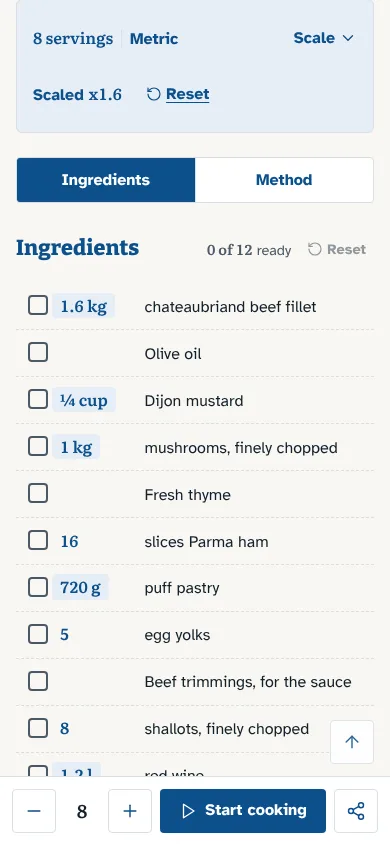
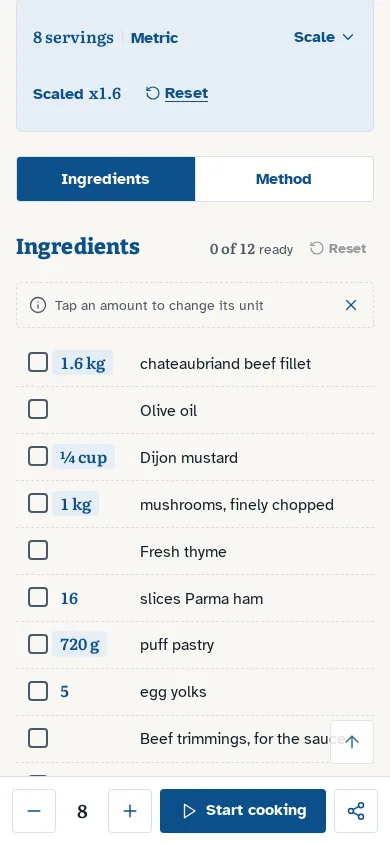
docs(project): describe the export, sharing, sous-chef, security and CI as they are now (#4)

diff --git a/web/README.md b/web/README.md
@@ -20,24 +20,24 @@ Run everything from the repository root through `make`, which uses the dev conta
 
 ## Structure
 
-| Path                      | Contents                                                                                                                                             |
-| ------------------------- | ---------------------------------------------------------------------------------------------------------------------------------------------------- |
-| `src/routes/`             | the home page, the catch-all `[...path]` route for sections and recipes, `search`, `shopping-list`, `favourites`, `offline` and the editor at `edit` |
-| `src/lib/components/`     | the page components, with the editor's components in `admin/`                                                                                        |
-| `src/lib/data/`           | the data seams: `RecipeSource` and `RecipeWriter`, with static, GitHub and server implementations                                                    |
-| `src/lib/core/`           | the typed wrapper over the WASM bindings                                                                                                             |
-| `src/lib/admin/`          | the editor's session, encryption, GitHub client, form model and drafts                                                                               |
-| `src/lib/ai/`             | the AI client, for the Worker or the server, and the import proof                                                                                    |
-| `src/lib/recipe/`         | the recipe view model and the URL view state                                                                                                         |
-| `src/lib/kitchen/`        | the shopping list, timers, the planner, wake lock and sharing text                                                                                   |
-| `src/lib/card/`           | the browser-drawn share card, from `assets/card-layout.json`                                                                                         |
-| `src/lib/seo/`            | `Recipe` JSON-LD and site metadata                                                                                                                   |
-| `src/lib/stores/`         | on-device state: favourites, recently viewed, notes, ticks, timers, the shopping list, theme and preferences                                         |
-| `src/lib/styles/`         | the design tokens, base styles and editor styles                                                                                                     |
-| `src/lib/types/recipe.ts` | the generated TypeScript types                                                                                                                       |
-| `src/service-worker.ts`   | the offline cache                                                                                                                                    |
-| `e2e/`                    | the Playwright suite                                                                                                                                 |
-| `scripts/`                | `gen-icons.mjs`, `gen-types.mjs` and `serve-build.mjs`                                                                                               |
+| Path                      | Contents                                                                                                                                                                                                                            |
+| ------------------------- | ----------------------------------------------------------------------------------------------------------------------------------------------------------------------------------------------------------------------------------- |
+| `src/routes/`             | the home page, the catch-all `[...path]` route for sections and recipes, `search`, `shopping-list`, `favourites`, `mine` (your own recipes), `how-to-use` (the guide and questions and answers), `offline` and the editor at `edit` |
+| `src/lib/components/`     | the page components, with the editor's components in `admin/`                                                                                                                                                                       |
+| `src/lib/data/`           | the data seams: `RecipeSource` and `RecipeWriter`, with static, GitHub, server and on-device implementations, and the export                                                                                                        |
+| `src/lib/core/`           | the typed wrapper over the WASM bindings                                                                                                                                                                                            |
+| `src/lib/admin/`          | the editor's session, encryption, GitHub client, form model, drafts, the written ingredient list and the plain-words checks                                                                                                         |
+| `src/lib/ai/`             | the AI client, for the Worker or the server, with the status check and Turnstile, and the import proof                                                                                                                              |
+| `src/lib/recipe/`         | the recipe view model and the URL view state                                                                                                                                                                                        |
+| `src/lib/kitchen/`        | the shopping list, timers, the planner, wake lock and sharing text                                                                                                                                                                  |
+| `src/lib/card/`           | the browser-drawn share card, from `assets/card-layout.json`                                                                                                                                                                        |
+| `src/lib/seo/`            | `Recipe` JSON-LD and site metadata                                                                                                                                                                                                  |
+| `src/lib/stores/`         | on-device state: favourites, recently viewed, notes, ticks, timers, the shopping list, your own recipes, the storage notice, theme and preferences                                                                                  |
+| `src/lib/styles/`         | the design tokens, base styles and editor styles                                                                                                                                                                                    |
+| `src/lib/types/recipe.ts` | the generated TypeScript types                                                                                                                                                                                                      |
+| `src/service-worker.ts`   | the offline cache                                                                                                                                                                                                                   |
+| `e2e/`                    | the Playwright suite                                                                                                                                                                                                                |
+| `scripts/`                | `gen-icons.mjs`, `gen-types.mjs` and `serve-build.mjs`                                                                                                                                                                              |
 
 ## Data seams
 

diff --git a/README.md b/README.md
@@ -47,7 +47,8 @@ A one-minute walkthrough, with captions, is on the site's [How to use](https://e
 ### Reading and cooking
 
 - Section pages and recipe pages pre-rendered for every folder and recipe, with `Recipe` JSON-LD and Open Graph tags.
-- Search that ignores accents, and an ingredients mode that ranks recipes by how many of their ingredients the cook already has.
+- Search that ignores accents, and an ingredients mode that ranks recipes by how many of their ingredients the cook already has. The search page shows how to search with examples to tap, and offers the ingredients mode when a comma is typed.
+- Small "i" circles explain the less obvious controls: a bubble on hover with a mouse, a note underneath on a phone.
 - Cook mode: one step at a time, keyboard and swipe navigation, the step's ingredients beside it, and a screen wake lock where the browser supports one.
 - Timers started from the method, kept as end times so they survive a reload, and able to run side by side.
 - A "serve at" planner that works back from a serving time when the steps carry timings.
@@ -65,10 +66,10 @@ A one-minute walkthrough, with captions, is on the site's [How to use](https://e
 
 ### Sharing
 
-- Share a link through the system share sheet, or copy it.
-- Share cards (Open Graph, portrait and story) rendered at build time, and a card drawn in the browser for the current scale, units and variant.
-- A printable A5 index card.
-- A shopping list that merges ingredients across recipes and can be shared as text.
+- **Share** opens straight onto a recipe card drawn in the browser for the current scale, units and variant, with every ingredient (long ones wrap; long lists run in two columns) and a QR code for the recipe.
+- On a phone, **Send the card** hands the image and the link to the system share sheet (WhatsApp, Messenger, Instagram and so on), optionally with the whole recipe as text; most computers get **Copy the card** instead. **Save image**, **Send the link**, **Copy as text** and **Print** (an A5 index card) sit beside it. A recipe kept on the device has no link yet.
+- Share cards (Open Graph, portrait and story) rendered at build time with the same layout.
+- A shopping list that merges ingredients across recipes and can be shared as text. Your own items are typed as you would write them ("2 kg potatoes"), and any amount can change its number and unit.
 
 ### Your own recipes
 
@@ -86,9 +87,15 @@ A one-minute walkthrough, with captions, is on the site's [How to use](https://e
 
 ### AI
 
-- A sous-chef chat on each recipe page, your own recipes included, with the answer streamed as it is written. A busy model is retried with backoff, then an optional fallback model; Cloudflare Turnstile can be switched on.
+- A sous-chef chat on each recipe page, your own recipes included, with the answer streamed as it is written and labelled with the model that wrote it. As it opens it says whether the cook is offline, the service is unreachable or the AI is in high demand. A busy, retired or out-of-quota model hands over to a lighter fallback (Google's newest Flash-Lite), and the cook is told; a silent model is given up after 25 seconds. Cloudflare Turnstile checks that a person is asking, and per-visitor and site-wide limits keep bots from draining the quota.
 - Import from text in the editor, which fills the form for review.
 - Both go through a Cloudflare Worker (or the self-hosted server), so the Gemini key never reaches the browser. Without an AI endpoint, both are hidden.
+
+### Security
+
+- A Content Security Policy on every page: only the site's own scripts run, and the page talks only to the AI worker, GitHub and Turnstile.
+- The editing token is encrypted in the browser with the owner's password, kept per tab, and can only write recipe files.
+- The worker serves only the cookbook's own pages, and the importer needs a signed proof.
 
 ### Offline
 
@@ -162,11 +169,11 @@ The home page lists the top-level sections and recently added recipes, with sear
 
 ### Shopping list
 
-**Add to shopping list** on a recipe adds its ingredients at the current scale. The list (`/shopping-list`) merges the same food across recipes, lets items be ticked off, and **Share list** shares it as text. Adding a recipe again updates its entry instead of doubling it.
+**Add to shopping list** on a recipe adds its ingredients at the current scale. The list (`/shopping-list`) merges the same food across recipes, lets items be ticked off, and **Share list** shares it as text. Adding a recipe again updates its entry instead of doubling it. **Add an item** takes anything else in one box, written as on paper; tapping any amount opens a small card to change its number and unit.
 
 ### Sharing
 
-**Share** opens a sheet with three options: share the link (with the current servings, units and variant in it), share a recipe card image drawn for the current view, or print an A5 index card.
+**Share** opens on a preview of the recipe card for the current view. **Send the card** (or **Copy the card** on a computer) sends it with the link, **Send the link** shares the address with the servings, units and variant in it, **Copy as text** copies the whole recipe, and **Print** prints an A5 index card.
 
 ### Adding a recipe
 

diff --git a/docs/DEPLOYMENT.md b/docs/DEPLOYMENT.md
@@ -53,6 +53,7 @@ flowchart TB
 - **CI passed** is the single required check. It fails if any job failed or was cancelled, and treats skipped jobs as passed, so a docs-only pull request can still be merged.
 - A change that touches only `docs/` or Markdown files skips every build job. On a push to `main`, CI then succeeds without producing a `site` artifact, and the deploy workflow's first job finds no artifact and skips the deploy. The live site is unchanged.
 - CI runs cancel an older run on the same branch when a newer one starts. The in-site editor reports a cancelled run as replaced by a later build, not as a failure.
+- Every action in the workflows is pinned to a full commit, with its release in a comment, so a moved tag cannot change what runs. Dependabot (`.github/dependabot.yml`) opens a `ci` pull request once a month when a newer release appears.
 - The Rust lints and the Rust tests are separate jobs that run side by side. Their caches are saved from `main` only (`save-if`) under shared keys, so branches and pull requests reuse `main`'s cache without filling the cache quota.
 
 ### The fast path
@@ -113,14 +114,14 @@ The static site cannot hold the Gemini key, so the sous-chef and the importer go
    - `ALLOWED_ORIGINS` lists the origins allowed to call it.
    - `GEMINI_MODEL` and `GEMINI_FALLBACK_MODEL` choose the models; the `[[ratelimits]]` blocks set how many questions a visitor, and everyone together, may ask a minute.
    - `GEMINI_THINKING_LEVEL` (default `low`) sets how long the model thinks before it answers; `minimal` is faster on the models that accept it, and `default` leaves the choice to the model. A model that refuses the level is asked again without one.
-   - `GEMINI_FALLBACK_MODEL`, when set, is tried after the main model has been busy three times in a row, for example a lighter Flash model.
+   - `GEMINI_FALLBACK_MODEL`, when set, takes over when the main model has been busy three times in a row, is out of its daily quota, has been retired by Google, or sends nothing for 25 seconds. It is set to `gemini-flash-lite-latest`, Google's alias for its newest Flash-Lite, so it never goes out of date; the main model stays pinned so its behaviour only changes on purpose. When Google retires the main model, the owner sees a notice in the sous-chef (with editing unlocked) naming the model to replace.
 4. Set `ai.endpoint` in `cookbook.config.json` (or `PUBLIC_AI_ENDPOINT` at build time) to the Worker's URL, and enter the same `ADMIN_IMPORT_SECRET` in the site's editing settings (see [ADMIN.md](ADMIN.md#importing-a-recipe-with-ai)).
 
-Answers are streamed to the browser as they are written. When Gemini is busy (a 429 for a per-minute limit, or a 500 or 503), the Worker waits a moment, with a little randomness so that cooks refused together do not return together, and asks again up to three times before it tries the fallback model. Each refusal is logged; `npx wrangler tail` in `crates/cookbook-worker` (inside `make shell`) shows them live.
+Answers are streamed to the browser as they are written. When Gemini is busy (a 429 for a per-minute limit, or a 500 or 503), the Worker waits a moment, with a little randomness so that cooks refused together do not return together, and asks again up to three times before it tries the fallback model, telling the cook it is switching. When every model stays busy, the cook is told the sous-chef is unavailable due to high demand, and `GET /status` reports "busy" for two minutes so the sous-chef can warn the next cook as it opens. Each refusal is logged; `npx wrangler tail` in `crates/cookbook-worker` (inside `make shell`) shows them live.
 
-### Turnstile (optional)
+### Turnstile
 
-Cloudflare Turnstile keeps scripts from spending the Gemini quota. It is off until the Worker has a `TURNSTILE_SECRET`, so it can be added at any time.
+Cloudflare Turnstile keeps scripts from spending the Gemini quota. It is on for this cookbook: the site key is in `cookbook.config.json` and the secret is on the Worker. It stays off for any copy of the project until its Worker has a `TURNSTILE_SECRET`.
 
 1. In the Cloudflare dashboard, open **Turnstile > Add widget**. Name it, add the site's hostname (`expo39.github.io`, plus `localhost` for development), and choose the **Invisible** widget mode. Cloudflare shows a site key and a secret key.
 2. Store the secret key in the Worker:
@@ -131,6 +132,8 @@ Cloudflare Turnstile keeps scripts from spending the Gemini quota. It is off unt
    ```
 
 3. Put the site key in `cookbook.config.json` as `ai.turnstileSiteKey` (or set `PUBLIC_TURNSTILE_SITE_KEY` at build time), then deploy the site. The site key is public by design.
+
+Saving the secret takes effect at once, while the site only starts sending tokens once it is built with the site key. Deploy the site with the key first, then store the secret, or the live sous-chef refuses questions in between.
 
 The browser then fetches a fresh token before each question and sends it in the `X-Turnstile-Token` header, and the Worker checks it with Cloudflare before it calls Gemini. To switch Turnstile off again, delete the secret with `npx wrangler secret delete TURNSTILE_SECRET`; the site key can stay.
 

diff --git a/design-system/sapori/pages/recipe.md b/design-system/sapori/pages/recipe.md
@@ -3,16 +3,15 @@
 - **Header:** title (display 2.2-3rem), `titleLocal` in italic muted, meta row (prep / cook / rest / difficulty, numerals in `--font-num`), tags, favourite and share buttons.
 - **Servings bar:**
   - a tint panel with a minus/plus stepper (output in `--font-num` 1.15rem) and a multiplier menu (half, 2x, 3x)
-  - "I have..." scaling and a Metric/US switch
+  - "Scale another way" (a folded "I have..." and tin size), with an "i" in its bar that explains it without opening it, and a Metric/US switch
   - when scaled, the amounts that changed are shown in `--colour-primary`
-- **Desktop (>= 64rem):** two columns. Ingredients go in a sticky left column (`top: var(--space-5)`, 22rem wide); the method goes on the right with numbered steps.
-- **Tablet (>= 48rem):** the same two columns, without the sticky column.
+- **Tablet and desktop (>= 48rem):** two columns, the ingredients on the left (at most 22rem) and the method on the right with numbered steps. The whole page scrolls as one; the ingredients never scroll in a box of their own.
 - **Mobile:**
   - Ingredients | Method segmented tabs
   - a bottom action bar fixed at `padding-bottom: env(safe-area-inset-bottom)` holding Servings, Start cooking and Share
   - content is padded so nothing sits under the bar
 - **Ingredients:**
-  - a checkbox, then one left-aligned line: the amount (`--font-num`) in a slot at least `--amount-slot` (4.5rem) wide, then the item. A long item wraps back under the amount, and hints sit beneath in muted italics, also starting under the amount
+  - a checkbox, then one left-aligned line: the amount (`--font-num`) in a slot at least `--amount-slot` (4.5rem) wide, then the item, in a column of its own: a long item wraps under itself, never under the amount, and hints sit beneath it in muted italics
   - a line with no amount keeps the slot empty, so every item starts at the same place; a `toTaste` line shows "to taste" in the slot in muted italics
   - tapping an amount toggles it to the next unit of the chosen system (metric: g, kg; ml, l, tsp, tbsp. US: oz, lb; tsp, tbsp, cup, fl oz), wrapping back to the written unit
   - dashed `--colour-line` row rules; group names in uppercase labels
@@ -22,5 +21,8 @@
   - Scaling hints ("check from the original time", "cook in batches") appear as small warning-coloured notes under the affected step.
   - The chef's tip is a surface panel with an accent uppercase label.
 - **Update banner:** when the open recipe was redeployed, a sticky floating notice (surface, 4 px primary left rule, `--shadow-float`) says "This recipe was updated" with a primary "Show the new version" button and a muted close cross. It is held back while cook mode is open, and applying it keeps the servings, ticks, timers and list.
-- **Your own recipe:** the same page at `/mine?id=`, with a device note under the breadcrumb, an Edit button, and no share or JSON-LD.
+- **Your own recipe:** the same page at `/mine?id=`, with a device note under the breadcrumb, an Edit button and no JSON-LD. Share works, without the link.
+- **Share sheet:** a side-free dialog (bottom sheet on a phone, centred on a wide screen) titled "Share", opening straight onto the recipe card preview (`--shadow-float`, at most half the screen tall). Under it a checkbox "Send the whole recipe as text too", then a full-width primary **Send the card** (or **Copy the card** where the browser cannot send files) and a two-column grid of short buttons: Save image, Send the link (greyed out, with a muted note, for a recipe on the device), Copy as text, Print.
+- **Share card:** one portrait format. Every ingredient is shown in full: a long one wraps under itself, an amount too wide for its column joins the words, the text shrinks to `minLineScale`, then the list runs in two balanced columns (the amount column narrowed by `pairedAmountShare`). Only a list too long even for that ends in "+ N more".
 - **Footer:** related recipes as compact cards; "Ask the sous-chef" (when AI is configured) opens a side drawer on desktop and a bottom sheet on mobile. The sheet rides above the phone keyboard. While waiting, three bouncing primary dots read "Thinking...", then "Still thinking... N s" after 4 s; the answer then streams into its bubble behind a blinking caret. A failed question stays in the log, dashed and faded, beside a warning row with **Try again**.
+- **Sous-chef status:** as it opens, a tint notice with a warning edge says when the cook is offline (the question box is disabled), when the service cannot be reached (disabled, with **Check again**), or when the AI is in high demand (still enabled). While a lighter model takes over, the waiting bubble reads "High demand: switching to a lighter model...". Each answer ends with a small muted line naming its model, and the owner (editing unlocked) sees a notice when the main model has been retired.

diff --git a/docs/CONFIGURATION.md b/docs/CONFIGURATION.md
@@ -11,7 +11,10 @@ Every key is optional. A missing key, or a file that cannot be read, means the d
 ```json
 {
   "site": { "url": "https://expo39.github.io", "basePath": "/My_Cookbook" },
-  "ai": { "endpoint": "https://sous-chef.example.workers.dev" },
+  "ai": {
+    "endpoint": "https://sous-chef.example.workers.dev",
+    "turnstileSiteKey": "0x4AAAAAAA-example"
+  },
   "admin": { "repo": "Expo39/My_Cookbook", "branch": "main" },
   "social": {
     "instagram": { "enabled": true, "handle": "tonys_foods" }
@@ -26,6 +29,7 @@ The `ai` and `admin` blocks above are examples; the committed file sets only `si
 | `site.url` | string | `https://expo39.github.io` | The deployed origin: canonical and Open Graph addresses, and the address in each share card's QR code. `PUBLIC_SITE_URL` overrides it. |
 | `site.basePath` | string | empty | The path the site is served under, used by `cookbook-cli cards` while `PUBLIC_SITE_URL` is not set. Once it is set, the cards take `BASE_PATH` from the environment instead, as the web build always does. |
 | `ai.endpoint` | string | none | The URL of the AI Worker. Without one (and without the self-hosted backend) the sous-chef and the importer are hidden. `PUBLIC_AI_ENDPOINT` overrides it. |
+| `ai.turnstileSiteKey` | string | none | The public Cloudflare Turnstile site key. With one, the sous-chef gets a person check before each question; the Worker enforces it once `TURNSTILE_SECRET` is set. `PUBLIC_TURNSTILE_SITE_KEY` overrides it. |
 | `admin.repo` | string | `Expo39/My_Cookbook` | The `owner/name` repository that the in-site editor commits to. See [ADMIN.md](ADMIN.md). |
 | `admin.branch` | string | `main` | The branch the editor commits to, which should be the branch the site is deployed from. |
 | `social.instagram.enabled` | boolean | `false` | Shows "More recipes on Instagram @handle" in the footer and links the profile from each recipe's structured data (`author.sameAs`). |
@@ -40,6 +44,7 @@ These are read when the site or its data is built. The values are baked into the
 | `PUBLIC_BACKEND` | web build | `static` | Selects the data source and the editor's writer: `static` reads the built JSON and commits through GitHub; `server` (or its alias `api`) uses the self-hosted server's API. Any other value fails the build. |
 | `PUBLIC_SITE_URL` | web build, `cookbook-cli cards` | `site.url` | The deployed origin, overriding `site.url`. |
 | `PUBLIC_AI_ENDPOINT` | web build | `ai.endpoint` | The AI Worker's URL, overriding `ai.endpoint`. |
+| `PUBLIC_TURNSTILE_SITE_KEY` | web build | `ai.turnstileSiteKey` | The Turnstile site key, overriding `ai.turnstileSiteKey`. |
 | `BASE_PATH` | web build, `cookbook-cli cards`, e2e | empty | The path prefix the site is served under, for example `/My_Cookbook` on GitHub Pages and empty when self-hosted. CI sets it in `.github/workflows/ci.yml`. |
 | `SOURCE_DATE_EPOCH` | `cookbook-cli build` | the current time | Fixes the build timestamp written by `build`, for reproducible output. |
 

diff --git a/crates/cookbook-worker/README.md b/crates/cookbook-worker/README.md
@@ -13,7 +13,7 @@ The static site uses the Worker when `ai.endpoint` in `cookbook.config.json` (or
 | `POST /import` | `X-Admin-Proof` header | `{ text }`, at most 20 KB | `{ recipe, checks }` |
 | `OPTIONS *` | none | none | 204 with the CORS headers |
 
-Errors before the answer starts are always `{ error, message }` with an error status, where `message` is fit to show to a cook; an answer that breaks off part way ends with an `error` event of the same shape. Rate limits reply 429 with a `Retry-After` header. Limits default to 30 chat requests and 5 imports per IP per hour (`RATE_LIMIT_CHAT`, `RATE_LIMIT_IMPORT`), counted as a fixed window in Workers KV. The Rate Limiting binding is not exposed by workers-rs yet.
+Errors before the answer starts are always `{ error, message }` with an error status, where `message` is fit to show to a cook; an answer that breaks off part way ends with an `error` event of the same shape. `/chat` and `/import` answer only a request whose `Origin` is in `ALLOWED_ORIGINS`, and refuse any other with 403 `forbidden_origin`; `/status` is open to all. Rate limits reply 429 with a `Retry-After` header. They are counted by Cloudflare's rate limiter (`PER_VISITOR` and `EVERYONE` below), which keeps its counts without any KV writes, so a flood of requests cannot use up the KV quota.
 
 ## Configuration
 
@@ -23,7 +23,7 @@ Errors before the answer starts are always `{ error, message }` with an error st
 | `ALLOWED_ORIGINS` | var | comma-separated, e.g. `https://expo39.github.io,http://localhost:5173` |
 | `GEMINI_MODEL` | var | defaults to the model compiled into `cookbook-ai` |
 | `GEMINI_THINKING_LEVEL` | var | `low` by default; `minimal`, `medium`, `high`, or `default` to send none |
-| `GEMINI_FALLBACK_MODEL` | var | optional; tried after the main model has been busy three times |
+| `GEMINI_FALLBACK_MODEL` | var | optional; takes over when the main model is busy three times, out of quota, retired or silent for 25 s (`gemini-flash-lite-latest` here) |
 | `TURNSTILE_SECRET` | secret | optional; when set, `/chat` needs an `X-Turnstile-Token` header |
 | `GEMINI_API_KEY` | secret | Google AI Studio key |
 | `ADMIN_IMPORT_SECRET` | secret | keys the admin proof, see below |
@@ -73,7 +73,7 @@ The admin UI gets the secret from the same place as the GitHub token: the secret
 | `src/handler.rs` | the thin Workers glue: routing, the Gemini call and the site fetch |
 | `src/auth.rs` | the admin proof check |
 | `src/cors.rs` | `ALLOWED_ORIGINS` and the CORS headers |
-| `src/limits.rs` | the per-IP fixed-window limits in Workers KV |
+| `src/limits.rs` | the keys for the per-visitor and site-wide rate limiters |
 
 ## Tests
 

diff --git a/design-system/sapori/pages/home.md b/design-system/sapori/pages/home.md
@@ -5,7 +5,8 @@
   - one card per top-level section (First Courses, Main Courses, Soups, Desserts, Sides), with a 4 px primary rule along the top and the recipe count in a tint pill
   - subsections are listed inside each card as links
 - **"Recently added":** the four newest recipe cards. Each card shows the innermost section as an accent eyebrow, the title (clamped to 2 lines), `titleLocal`, the summary (clamped to 2 lines), then a footer pinned to the bottom with total time and servings in `--font-num` and up to 2 tags as tint pills.
-- **"Your recipes":** below the sections, once the device's recipes have loaded: a heading with an "Add a recipe" link, then the visitor's own recipe cards, each with a "Yours" eyebrow (device icon, tint pill). Section pages list the visitor's recipes for that section the same way.
+- **"Your recipes":** below the sections, once the device's recipes have loaded: a heading with an "Add a recipe" link, then the visitor's own recipe cards, each with a "Yours" eyebrow (device icon, tint pill). Section pages list the visitor's recipes for that section the same way. About once a week, while a visitor has recipes of their own, an export reminder sits under the heading: a surface panel with a 4 px accent edge and the alert icon ("Your recipes are only in this browser..."), a primary **Export** button that opens the format dialog, and a muted close cross ("Remind me next week"). Its text keeps to `--measure`.
+- **Search page:** while nothing is typed, a tint "How to search" panel lists examples as white pill chips beside what each shows, in two aligned columns; a tap fills the box. A comma in the name search shows "Looks like a list of ingredients..." with a chip to switch to the ingredients search. The box's label carries an "i".
 - **Grid:** every card grid uses `--card-grid` (`auto-fill`, `minmax(min(16rem, 100%), 1fr)`). Cards in a row share one height; titles scale with the card through container query units, and a card with a photo puts it beside the text once the card is 34rem wide.
 - **Sections nav:** below 64rem it is a row of pill chips that scrolls sideways, fades at whichever end runs on, and centres the current section, which is filled with the primary colour. From 64rem up it is a row of underlined text links.
 - **Breadcrumb:** the whole trail, wrapped rather than truncated. Below 40rem the current page is left out, because the title sits straight beneath it.

diff --git a/design-system/sapori/MASTER.md b/design-system/sapori/MASTER.md
@@ -57,7 +57,9 @@ All fonts are self-hosted as woff2 under `web/static/fonts/`, subset to Latin + 
 ## Interaction and accessibility (from ui-ux-pro-max priorities 1-9)
 - Touch targets are at least 44x44 px, with at least 8 px between them. `cursor: pointer` on everything clickable.
 - Focus is visible everywhere as a 2 px `--colour-primary` outline with a 2 px offset. Never remove it.
-- Labels are visible on every input and never placeholder-only. Errors sit next to their field and say how to fix the problem.
+- Labels are visible on every input and never placeholder-only. Errors sit next to their field and say how to fix the problem. The one exception is a dense repeated row (an ingredient line by line, the shopping list's amount card), where the columns make each box plain; those keep visually hidden labels.
+- Anything that needs explaining gets an "i" (`InfoTip.svelte`) beside its label: with a mouse, hover or focus shows a dark bubble (`--colour-ink` ground, at most 20rem); on touch, a tap opens a tint note with a primary edge on its own line. It has a normal pointer cursor and no hover ring, and inside a `<summary>` it never opens or closes the box.
+- While a dialog is open only the dialog scrolls; the page behind stays where it was.
 - Deep links everywhere: recipe view state goes in the URL (`?serves=6&u=us&v=vanilla:pods`). Back always behaves predictably.
 - Reserve space for images (`aspect-ratio`), keeping CLS under 0.1. Lazy-load images below the fold and serve AVIF or WebP.
 
@@ -74,6 +76,6 @@ Tokens instead of repeated values. Svelte-scoped component styles, and one globa
 - [ ] No emoji icons; every icon comes from `Icon.svelte`
 - [ ] Focus is visible; full keyboard path through the page; touch targets are at least 44 px
 - [ ] `prefers-reduced-motion` is respected
-- [ ] Screenshots at 375 / 768 / 1024 / 1440 px in light and dark, with no horizontal scroll and nothing hidden behind fixed bars or safe areas
+- [ ] Screenshots at 320 / 375 / 768 / 1024 / 1440 px in light and dark, with no horizontal scroll and nothing hidden behind fixed bars or safe areas
 - [ ] All numerals that are data are in `--font-num`
 - [ ] svelte-check passes with no warnings

diff --git a/docs/DEVELOPMENT.md b/docs/DEVELOPMENT.md
@@ -51,6 +51,7 @@ Every target runs inside the `dev` container unless noted.
 | `make fmt` | Formats Rust with `cargo fmt` and the web code with Prettier. |
 | `make lint` | `cargo fmt --check`, `cargo clippy -D warnings`, `svelte-check --fail-on-warnings`, Prettier and ESLint. |
 | `make screenshots` | Builds the site and writes review screenshots into `SHOTS` (default `web/test-results/shots`). |
+| `make walkthrough` | Records the how-to video and its captions with Playwright, then encodes `web/static/video/how-to-use.webm` and its poster offline in `FFMPEG_IMAGE` (any image with ffmpeg and a shell; the dev image has none). |
 | `make preview` | Builds the production site with the GitHub Pages base path and serves it at http://localhost:5173/My_Cookbook/. |
 | `make worker-deploy` | Deploys the AI Worker; needs `CLOUDFLARE_API_TOKEN`. `make worker-secrets` sets its secrets. |
 | `make shell` | Opens a bash shell in the `dev` container. |
@@ -116,6 +117,8 @@ Rules for end-to-end tests:
 
 - They run against the built site served by `web/scripts/serve-build.mjs`, never against the dev server.
 - All network is mocked with `page.route` (for example `admin.json` and `https://api.github.com/**` in `admin.spec.ts`). No test may reach the internet.
+- The sous-chef needs three fakes, as in `souschef.spec.ts`: Cloudflare Turnstile (`https://challenges.cloudflare.com/**`, a script that hands over a token at once), the Worker's `**/status` and its `**/chat` stream. Without the status fake the sous-chef reports that it cannot be reached.
+- `walkthrough.spec.ts` records the how-to video and only runs under `make walkthrough`. Playwright's recordings carry no mouse pointer, so the spec draws one that glides to each control (`reach`, `tap`) and ripples on each press; move to a control with `tap` rather than `click` so the video can be followed.
 - `smoke.spec.ts` runs once for every recipe in `web/static/data/manifest.json`, so a new recipe is covered without a new test.
 - `mobile.spec.ts` runs in the Pixel 7 project, and `screenshots.spec.ts` only under `make screenshots`.
 

diff --git a/.claude/skills/add-recipe/SKILL.md b/.claude/skills/add-recipe/SKILL.md
@@ -30,7 +30,7 @@ Write it to match the house style:
 - **`summary`:** one or two sentences, 200 characters at most. Anything extra goes into `tips`.
 - **Amounts:**
   - Keep the units as written, but prefer metric. If the source uses cups, convert dry goods with the density of their `food` id, and put the original in `alt` only when that helps.
-  - Ranges are `{"min", "max"}`, e.g. "2-3 cloves".
+  - Ranges are `{"min", "max"}`, but only for counts, e.g. "2-3 cloves". A weight or volume takes one amount, the middle of the source's range ("100-150 g" becomes 125 g), because a wide range pushes the ingredient names out of line on the page. Say in a tip that the amounts are a guide when the source gave ranges.
   - Amounts like "Zest of 1 lemon" use `prefix`.
   - Lines with no amount ("Salt, to taste") have no `amount`. Use `"scale": "toTaste"` when the line says "to taste".
 - **Scaling mode per ingredient:**
@@ -71,4 +71,4 @@ Then propose the commit. Do not make it unless asked. The repo's format is `<typ
 - `content(recipes): add Pastizzi tal-Irkotta`
 - `content(recipes): update Beef Wellington`
 
-Recipes can also be added in the site itself: Settings > Unlock editing opens the admin editor, which runs the same checklist in the browser. This skill is the route from the terminal.
+Recipes can also be added in the site itself: Settings > For the cookbook's owner > Unlock editing opens the admin editor, which runs the same checklist in the browser. This skill is the route from the terminal.

diff --git a/docs/ARCHITECTURE.md b/docs/ARCHITECTURE.md
@@ -186,7 +186,7 @@ Errors have ids starting `E-` and warnings `W-` (for example `E-TOKEN-UNRESOLVED
 
 ## The AI Worker
 
-`cookbook-worker` is a Rust Cloudflare Worker with two routes: `POST /chat` for the sous-chef, scoped to one recipe, and `POST /import`, which turns pasted text into a recipe and needs an admin proof. The prompts and types come from `cookbook-ai`. See [crates/cookbook-worker/README.md](../crates/cookbook-worker/README.md).
+`cookbook-worker` is a Rust Cloudflare Worker with three routes: `POST /chat` for the sous-chef, scoped to one recipe, `POST /import`, which turns pasted text into a recipe and needs an admin proof, and `GET /status`, which the sous-chef asks when it opens (whether the AI has been in high demand lately, and whether a model has been retired) without calling Gemini. `/chat` starts its stream at once, so it can tell the cook when a lighter model steps in (a `status` event) and which model answers (a `model` event). A busy, retired or out-of-quota main model hands over to `GEMINI_FALLBACK_MODEL`, Google's newest Flash-Lite alias, and a model that sends nothing for 25 seconds is given up. Short notes for the status (busy, retired) live in KV. The prompts and types come from `cookbook-ai`. See [crates/cookbook-worker/README.md](../crates/cookbook-worker/README.md).
 
 ## The self-hosted server
 

diff --git a/crates/cookbook-wasm/README.md b/crates/cookbook-wasm/README.md
@@ -10,7 +10,7 @@ The web app does not import these bindings directly; it goes through the typed w
 |---|---|
 | `version()` | the crate version |
 | `scale_recipe(...)` | scales a recipe for a request (servings, multiplier, pan or ingredient), with variants applied |
-| `parse_ingredient_line(line)` | parses one pasted ingredient line into an ingredient |
+| `parse_ingredient_line(line)` | reads one written or pasted ingredient line (list bullets and numbers tidied away) into an ingredient |
 | `check_recipe(recipe, id, context)` | runs the recipe checklist on one recipe |
 | `check_removal(id, recipes)` | lists the recipes that still link to `id` |
 | `SearchEngine` | built from `search.json`; `search(query)` and `ingredientsIHave(have)` |
